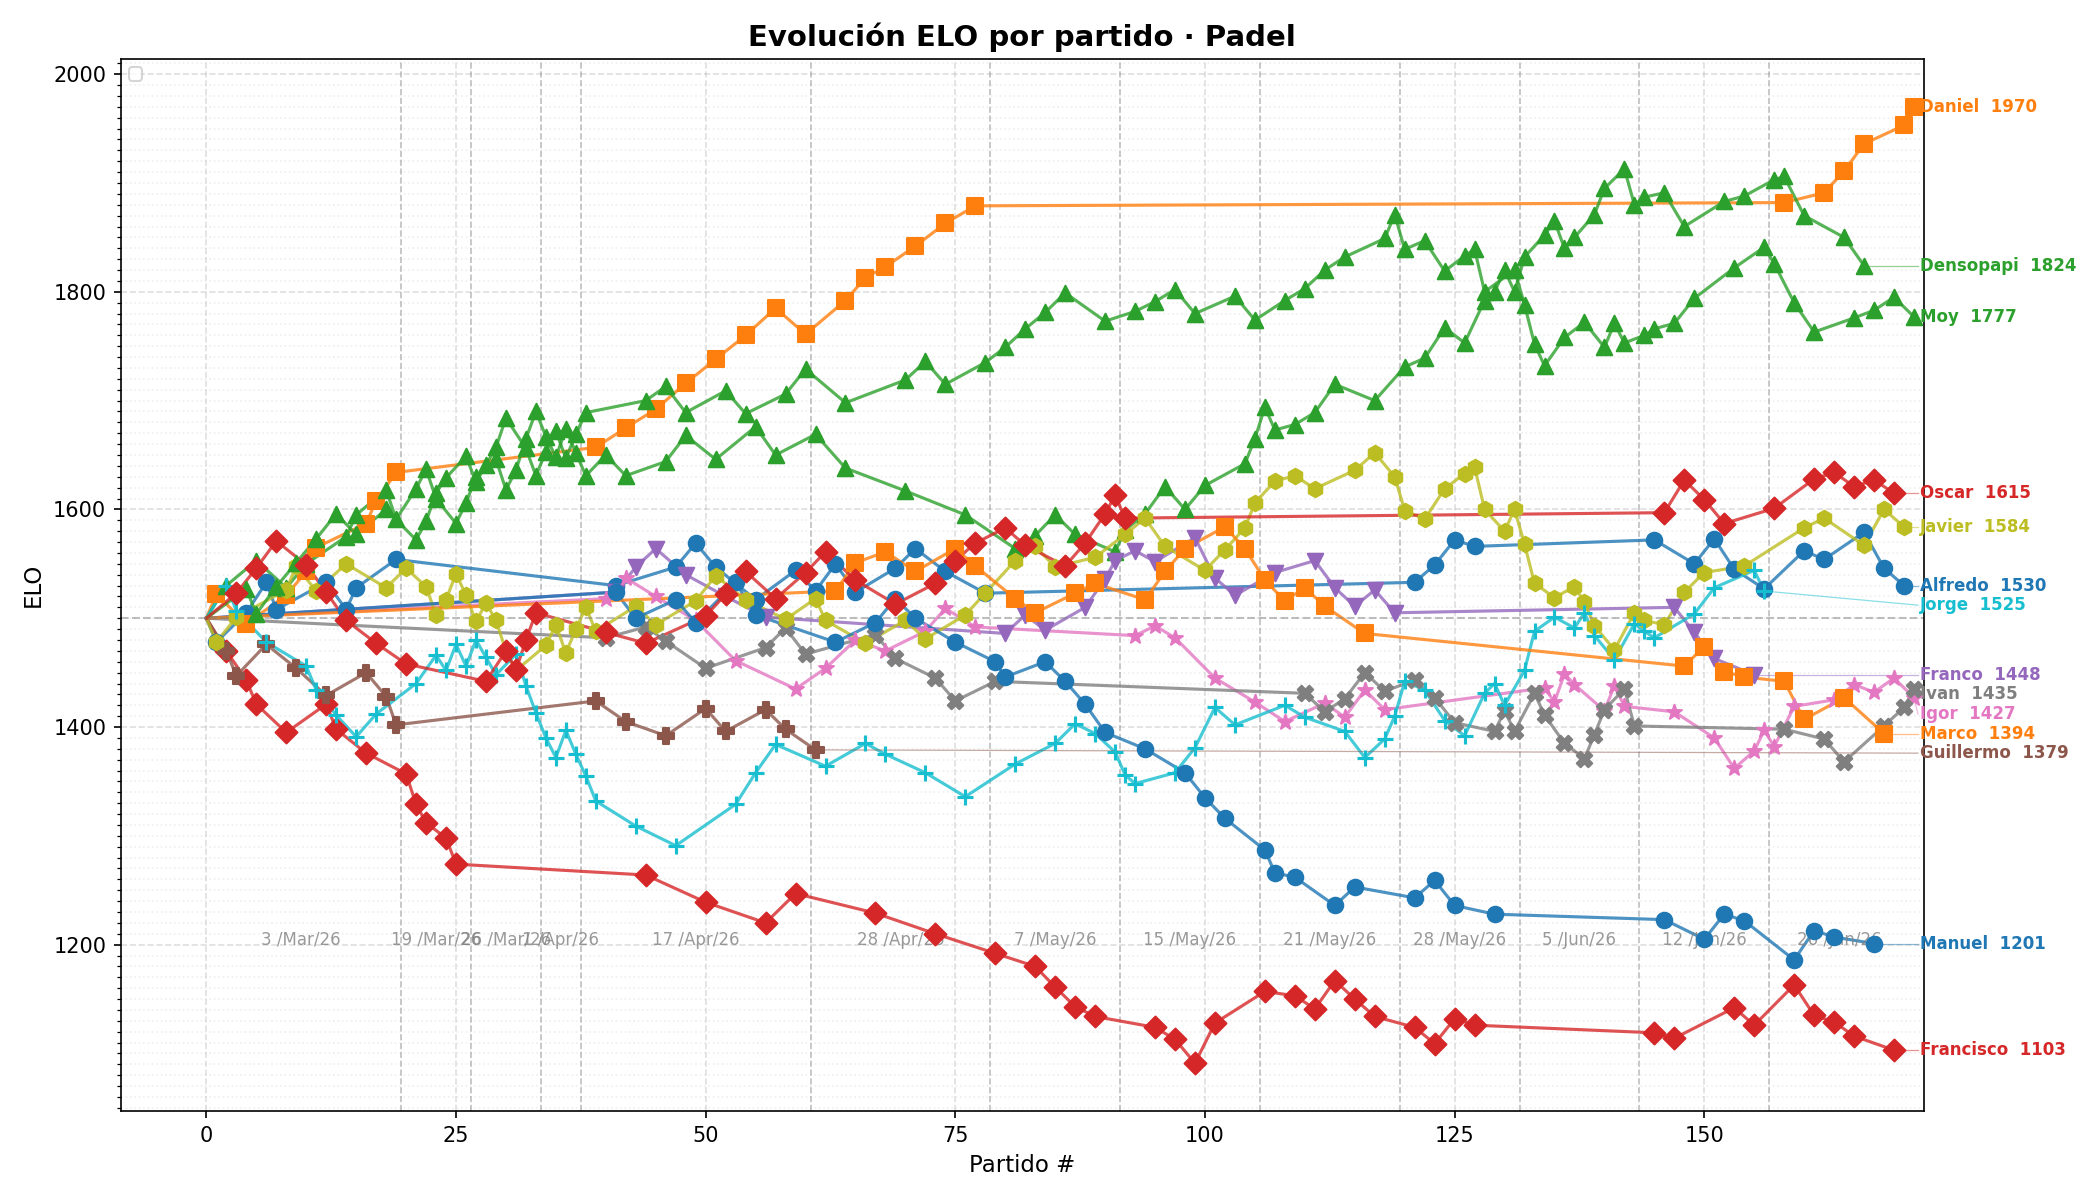
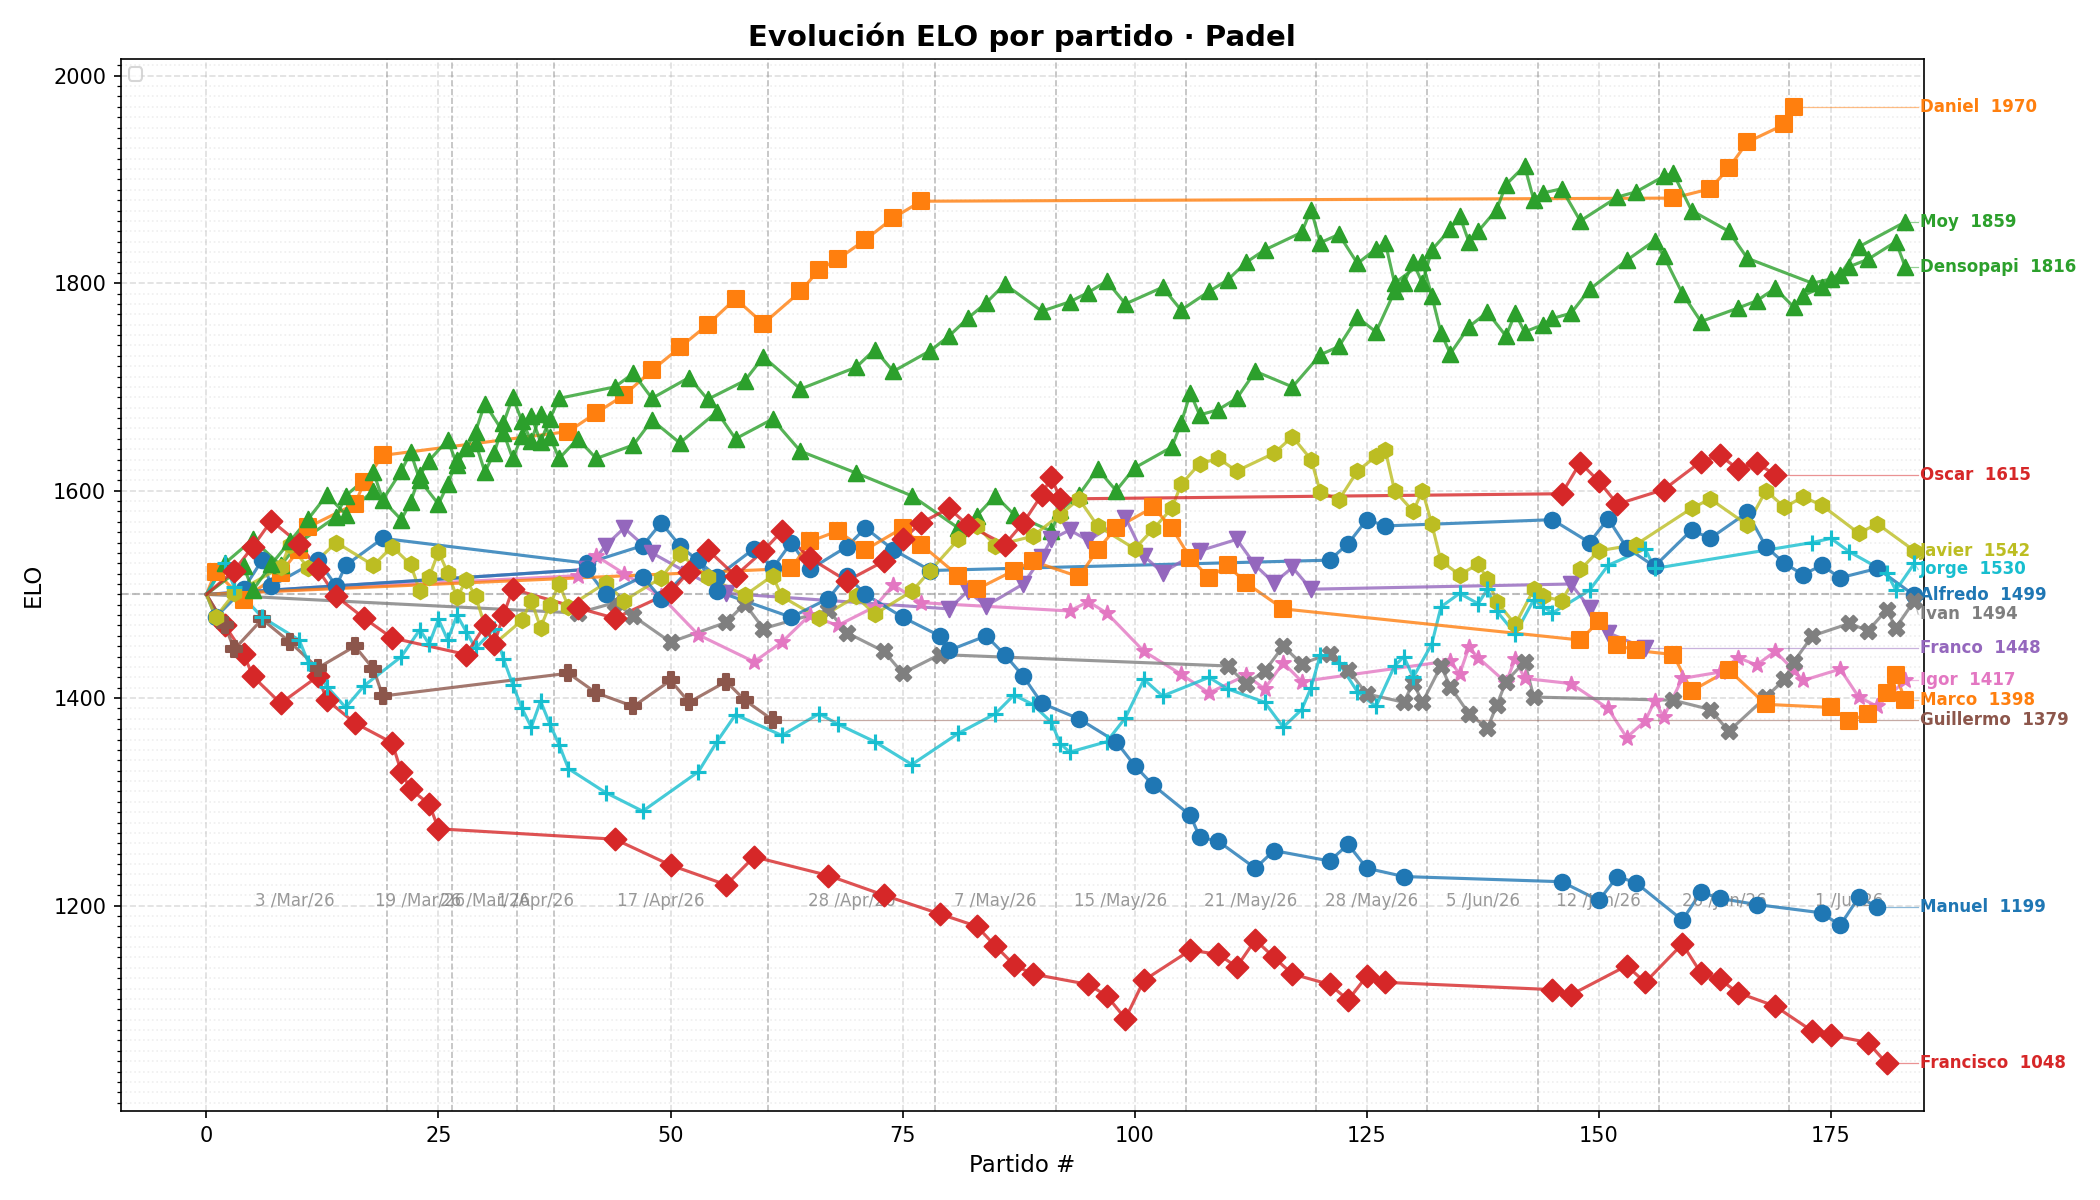
update

diff --git a/padel_elo.py b/padel_elo.py
@@ -203,7 +203,20 @@ MATCHES_CSV = """Fecha,Ronda,Pista,Equipo 1,Equipo 2,Marcador
 26 /Jun/26,6,1,Ivan / Javier,Marco / Alfredo,5 - 0
 26 /Jun/26,6,2,Oscar / Chayito,Igor / Moy,0 - 5
 26 /Jun/26,7,1,Daniel / Ivan,Alfredo / Javier,3 - 2
-26 /Jun/26,8,1,Daniel / Ivan,Moy / Igor,4 - 3"""
+26 /Jun/26,8,1,Daniel / Ivan,Moy / Igor,4 - 3
+1 /Jul/26,1,1,Moy / Javier,Alfredo / Igor,3 - 2
+1 /Jul/26,1,2,Densopapi / Chayito,Jorge / Ivan,1 - 4
+1 /Jul/26,2,1,Moy / Alfredo,Javier / Manuel,3 - 2
+1 /Jul/26,2,2,Densopapi / Jorge,Chayito / Marco,4 - 1
+1 /Jul/26,3,1,Moy / Igor,Alfredo / Manuel,5 - 0
+1 /Jul/26,3,2,Densopapi / Ivan,Jorge / Marco,3 - 2
+1 /Jul/26,4,1,Moy / Manuel,Javier / Igor,4 - 1
+1 /Jul/26,4,2,Densopapi / Marco,Chayito / Ivan,4 - 1
+1 /Jul/26,5,1,Javier / Alfredo,Igor / Manuel,3 - 2
+1 /Jul/26,5,2,Chayito / Jorge,Ivan / Marco,0 - 5
+1 /Jul/26,6,2,Marco / Densopapi,Ivan / Jorge,6 - 2
+1 /Jul/26,7,1,Moy / Igor,Marco / Densopapi,6 - 3
+1 /Jul/26,7,2,Javier / Alfredo,Jorge / Ivan,4 - 6"""
 
 
 def normalize_name(name: str) -> str:

diff --git a/README.md b/README.md
@@ -100,7 +100,7 @@ Tabla global con ELO total, victorias, derrotas, porcentaje de victorias, partid
 
 Una gráfica de líneas con la evolución del ELO de cada jugador sesión a sesión, guardada automáticamente en el directorio del proyecto.
 
-![Ejemplo de gráfica ELO](elo_evolution.png?v=11)
+![Ejemplo de gráfica ELO](elo_evolution.png?v=12)
 
 ---
 
@@ -361,6 +361,26 @@ Los resultados de los partidos están registrados en el siguiente spreadsheet:
 | 13 | Roy | 1377 |
 | 14 | Manuel | 1201 |
 | 15 | Francisco | 1103 |
+
+### 1/Jul/26
+
+| # | Jugador | ELO |
+|---|---------|-----|
+| 🥇 | Daniel | 1970 |
+| 🥈 | Moy | 1859 |
+| 🥉 | Densopapi | 1816 |
+| 4 | Oscar | 1615 |
+| 5 | Javier | 1542 |
+| 6 | Jorge | 1530 |
+| 7 | Alfredo | 1499 |
+| 8 | Ivan | 1494 |
+| 9 | Igor | 1417 |
+| 10 | Franco | 1448 |
+| 11 | Marco | 1398 |
+| 12 | Guillermo | 1379 |
+| 13 | Roy | 1377 |
+| 14 | Manuel | 1199 |
+| 15 | Francisco | 1048 |
 
 ---
 
